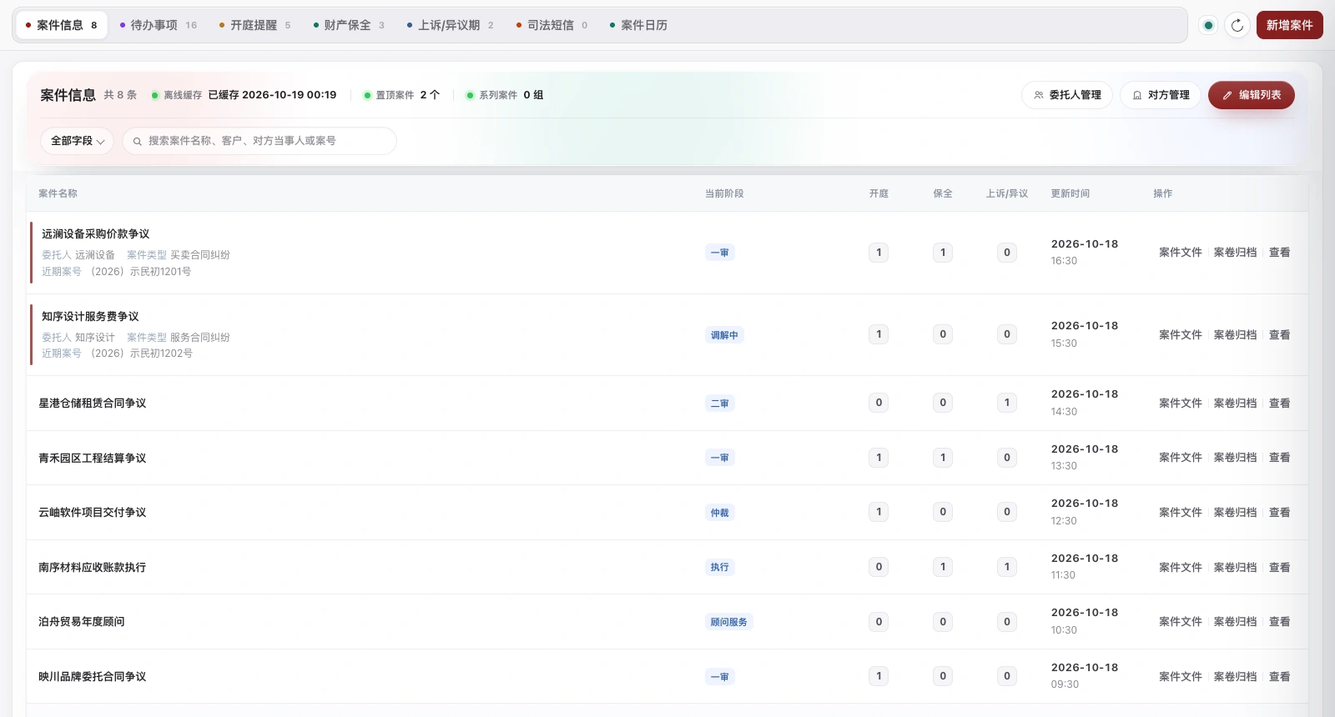
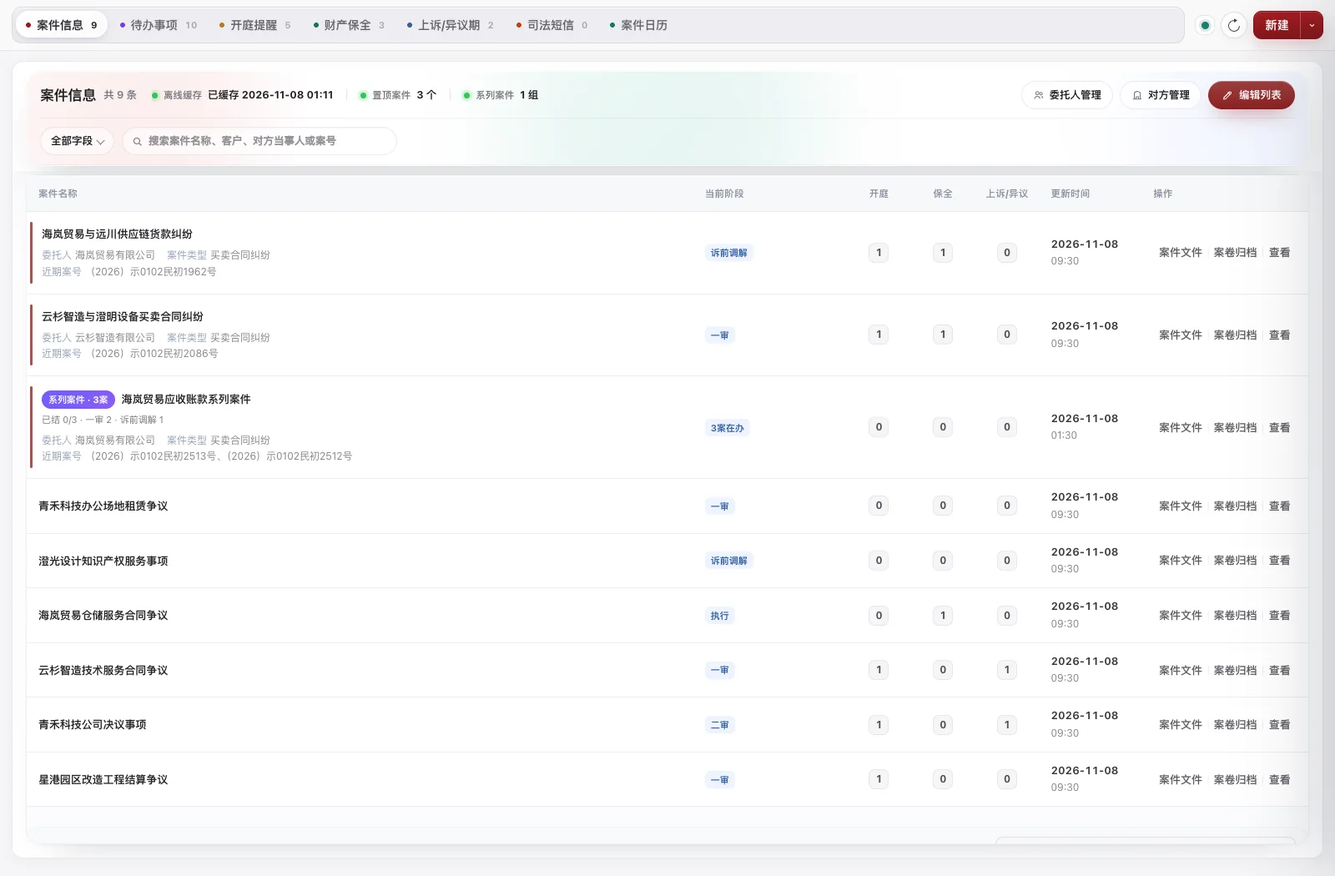
Refresh product screenshots and add interactive workbench tour

diff --git a/docs/index.html b/docs/index.html
@@ -18,13 +18,15 @@
 .hero-actions{width:min(356px,100%);min-width:0;display:flex;flex-direction:column;align-items:stretch;gap:0;padding:2px 0 0}.hero-actions .button{width:100%;justify-content:space-between;padding:15px 18px;font-size:13px}.hero-actions .button>span{margin-left:0;font-size:18px}.hero-ai-link{display:flex;width:100%;align-items:center;justify-content:space-between;gap:12px;margin-top:8px;padding:6px 18px;color:#9b1d27;font-size:12px;font-weight:500;text-decoration:none}.hero-ai-link:hover{color:#781920;text-decoration:underline;text-underline-offset:3px}.hero-ai-link:focus-visible{outline:2px solid #9b1d27;outline-offset:3px}.hero-actions .download-meta{margin:12px 18px 0;font-size:11px;line-height:1.7;color:var(--muted)}.hero-quiet-links{display:flex;justify-content:space-between;gap:14px;border-top:1px solid var(--line);padding:12px 18px 0;margin-top:15px}.hero-quiet-links .quiet-link{display:inline-flex;align-items:center;gap:6px;margin:0;font-size:11px}.hero-quiet-links .quiet-link span{margin-left:0}@media(max-width:900px){.hero-bottom{display:block}.hero-actions{width:100%;max-width:420px;margin-top:26px;padding:0}.desktop-break{display:none}}@media(max-width:720px){.hero-actions{margin-top:23px}.hero-quiet-links{flex-wrap:wrap;gap:8px 16px}}
 </style>
 <link rel="stylesheet" href="typography-20261104.css">
+<link rel="stylesheet" href="tour-20261108.css?v=20261108">
+<script src="tour-20261108.js?v=20261108" defer></script>
 </head>
 <body>
 <a class="skip-link" href="#main">跳至主要内容</a>
 <header class="site-header">
 <div class="header-inner">
   <a class="wordmark" href="#" aria-label="Stella 首页"><img src="assets/stella-brand.svg" alt="Stella 法律操作系统" width="990" height="378" style="height:auto;object-fit:contain"></a>
-  <nav aria-label="主导航"><a href="#cases">案件管理</a><a href="#knowledge">知识与阅读</a><a href="#office">邮箱与工具</a><a href="#updates">更新日志</a><a href="download.html">下载指引</a></nav>
+  <nav aria-label="主导航"><a href="#cases">案件管理</a><a href="#knowledge">知识与阅读</a><a href="#office">邮箱与工具</a><a href="#tour">更多板块</a><a href="#updates">更新日志</a><a href="download.html">下载指引</a></nav>
   <a class="header-download" href="download.html">下载 Stella <span aria-hidden="true">↗</span></a>
 </div>
 </header>
@@ -34,13 +36,13 @@
   <h1>让法律工作，<br><span class="hero-second">有条理地发生<span class="period">。</span></span></h1>
   <div class="hero-bottom"><p class="hero-description">从法院短信到案件台账，从一篇文章到可复用的知识。<br>Stella 把办案、阅读、邮件与日常工具连接起来，<br class="desktop-break">让重复的整理交给系统，让判断留给你。</p>
   <div class="hero-actions"><a class="button primary" data-download href="download.html">选择适合你的版本 <span aria-hidden="true">↗</span></a><p class="download-meta" data-device-note>Mac 1.1.8 · macOS 12+ · 两种芯片分别下载</p><a class="hero-ai-link" href="download.html#agent-install"><span>复制指令，让 AI 帮你安装</span><span aria-hidden="true">↗</span></a><div class="hero-quiet-links"><a class="quiet-link" href="watch.html"><span aria-hidden="true">▷</span>观看介绍片 · 3 分 24 秒</a><a class="quiet-link" href="https://github.com/liu-zongjin/stella-downloads/releases">GitHub 发布与校验 <span aria-hidden="true">↗</span></a></div></div></div>
-  <div class="workspace-frame" id="workspace"><div class="frame-bar"><div class="window-controls" aria-hidden="true"><i></i><i></i><i></i></div><span>一个工作空间，串起日常工作</span><span class="frame-label">STELLA / WORKSPACE</span></div><a class="showcase-image-link" href="assets/stella-workspace-showcase.webp" target="_blank" rel="noopener"><img class="workspace-image" src="assets/stella-workspace-showcase.webp" width="1600" height="1050" alt="Stella 桌面工作空间，包括知识库导航、案件入口与效率中心" fetchpriority="high" style="height:auto;object-fit:contain"></a><div class="image-footnote"><span>熟悉的桌面体验，专注于手头的事。</span><span>界面中的内容为演示资料</span></div></div>
+  <div class="workspace-frame" id="workspace"><div class="frame-bar"><div class="window-controls" aria-hidden="true"><i></i><i></i><i></i></div><span>一个工作空间，串起日常工作</span><span class="frame-label">STELLA / WORKSPACE</span></div><div class="wb-carousel" data-wb-carousel aria-roledescription="轮播" aria-label="首页工作台实机演示"><div class="wb-stage"><figure class="wb-slide is-active" data-wb-slide="knowledge" aria-hidden="false"><a class="showcase-image-link" href="assets/stella-workspace-showcase.webp" target="_blank" rel="noopener"><img class="workspace-image" src="assets/stella-workspace-showcase.webp" width="1600" height="1050" alt="法律知识工作台实机界面：金色夕照与海岸悬崖背景，知识沉淀与检索、今日工作快报与提醒中心" fetchpriority="high"></a></figure><figure class="wb-slide" data-wb-slide="case" aria-hidden="true"><a class="showcase-image-link" href="assets/stella-workspace-case.webp" target="_blank" rel="noopener"><img class="workspace-image" src="assets/stella-workspace-case.webp" width="1600" height="1050" loading="lazy" alt="案件管理工作台实机界面：日出星芒与云海雪峰背景，案件统筹与推进、案件概览与提醒中心"></a></figure></div><div class="wb-controls"><div class="wb-tabs" role="tablist" aria-label="切换首页工作台"><button class="wb-tab is-active" type="button" role="tab" aria-selected="true" data-wb-target="knowledge"><span class="wb-tab-index">01</span><span class="wb-tab-copy"><strong>法律知识工作台</strong><small>知识沉淀与检索</small></span></button><button class="wb-tab" type="button" role="tab" aria-selected="false" tabindex="-1" data-wb-target="case"><span class="wb-tab-index">02</span><span class="wb-tab-copy"><strong>案件管理工作台</strong><small>案件统筹与推进</small></span></button></div><div class="wb-auto"><button class="wb-play" type="button" data-wb-toggle aria-label="暂停自动切换" aria-pressed="true">❚❚</button><span class="wb-progress" aria-hidden="true"><i></i></span></div></div></div><div class="image-footnote"><span>两个工作台，一套本地工作空间；点击标签切换，或让它自动轮播。</span><span>界面中的内容为演示资料</span></div></div>
   <div class="principles"><p><span class="tiny-icon" aria-hidden="true">⌘</span> 案件全流程</p><p><span class="tiny-icon" aria-hidden="true">◉</span> 知识深度整理</p><p><span class="tiny-icon" aria-hidden="true">↗</span> 办公自动归集</p></div>
 </section>
 <section class="work-section wrap" id="cases" aria-labelledby="cases-title">
 <div class="section-heading"><p class="eyebrow section-number">01 / 案件管理</p><h2 id="cases-title">案件在这里，<br>进展也在这里。</h2><p class="section-description">把案件档案、开庭、待办、保全和诉讼期限放在同一个工作台。<br>法院通知与本地材料顺着案件汇合，重要节点不再四处寻找。</p></div>
-<div class="product-shot"><a class="showcase-image-link" href="assets/stella-cases-showcase.webp" target="_blank" rel="noopener"><img src="assets/stella-cases-showcase.webp" alt="Stella 案件管理工作台：案件台账、开庭、待办、保全、期限与司法短信入口" loading="lazy" width="1600" height="860" style="height:auto;object-fit:contain"></a><span class="shot-label">案件管理 / 应用实景 · 8 个演示案件，关联待办、开庭、保全与期限<a href="assets/stella-cases-showcase.webp" target="_blank" rel="noopener">查看大图 ↗</a></span></div>
-<div class="case-showcase-detail"><a class="showcase-image-link" href="assets/stella-case-detail-showcase.webp" target="_blank" rel="noopener"><img src="assets/stella-case-detail-showcase.webp" loading="lazy" alt="案件详情中的待办、开庭提醒、财产保全与数据日志" width="1216" height="1050" style="height:auto;object-fit:contain"></a><div><span class="feature-index">ONE CASE / CONNECTED WORK</span><h3>不只是一行案件名称，<br>更是一组有联系的工作。</h3><p>以设备采购争议为例：委托人与对方当事人、案号和法院、材料文件夹、庭前待办、开庭提醒及保全记录都已关联。进入详情，就能沿着同一件事继续处理。</p></div></div>
+<div class="product-shot"><a class="showcase-image-link" href="assets/stella-cases-showcase.webp" target="_blank" rel="noopener"><img src="assets/stella-cases-showcase.webp" alt="Stella 案件管理台账：案件列表、系列案件分组、开庭、待办、保全与期限一览" loading="lazy" width="1600" height="1050" style="height:auto;object-fit:contain"></a><span class="shot-label">案件管理 / 应用实景 · 9 个演示案件，含系列案件分组与关联待办、开庭、保全、期限<a href="assets/stella-cases-showcase.webp" target="_blank" rel="noopener">查看大图 ↗</a></span></div>
+<div class="case-showcase-detail"><a class="showcase-image-link" href="assets/stella-case-detail-showcase.webp" target="_blank" rel="noopener"><img src="assets/stella-case-detail-showcase.webp" loading="lazy" alt="案件详情：待办事项、开庭提醒、财产保全、数据日志，以及一张网同步与关联动态" width="1216" height="1050" style="height:auto;object-fit:contain"></a><div><span class="feature-index">ONE CASE / CONNECTED WORK</span><h3>不只是一行案件名称，<br>更是一组有联系的工作。</h3><p>以设备采购争议为例：委托人与对方当事人、案号和法院、材料文件夹、庭前待办、开庭提醒及保全记录都已关联。「一张网」同步记录与关联动态也在同一页，进入详情就能沿着同一件事继续处理。</p></div></div>
 <div class="detail-grid"><article><span class="feature-index">CASE WORKSPACE</span><h3>一份案件，串起全部日常。</h3><p>普通案件与系列案件统一管理，Excel 批量导入、更新和回退。将本地文件夹绑定到案件，直接浏览、预览、整理文件，并对案件材料发起 AI 问答。</p></article><article><span class="feature-index">DATES & CONTACTS</span><h3>让期限和提醒跟上进展。</h3><p>开庭、保全、上诉与异议期各有记录和提醒；案件日历可同步 Apple 日历，委托人可同步 iCloud 联系人。联系人、备忘和文件始终围绕同一个案件。</p></article></div>
 <div class="sms-story"><div class="story-copy"><p class="eyebrow section-number">MAC 专属联动</p><h3>一条法院短信，<br>成为下一步行动。</h3><p>iPhone 短信经 iCloud 同步到 Mac「信息」后，Stella 可识别司法通知，提取案号、法院、时间与事项，匹配本地案件。</p><p>符合自动处理条件时，生成关联待办、开庭或期限记录，并尝试下载送达文书；可归档的材料进入案件文件夹，需登录或核验的环节再由你接手。</p><p class="feature-note">需在 Mac 开启短信同步并授予读取权限，配置识别服务。识别或匹配不确定时，进入待确认流程。</p></div><div class="sms-flow" aria-label="短信到案件的工作流程示意"><div class="message-sample"><span>信息 · 司法通知</span><p>您有一份新的电子送达文书，<br>请查收并关注相关期限。</p><small>流程示意</small></div><i class="flow-connector" aria-hidden="true"></i><div class="flow-node"><b>01</b><div><strong>识别通知与案号</strong><small>提取法院、时间、事项与文书链接</small></div><span>✦</span></div><div class="flow-node"><b>02</b><div><strong>关联本地案件</strong><small>已有案件匹配，待办与期限归位</small></div><span>↗</span></div><div class="flow-node"><b>03</b><div><strong>下载文书，接续处理</strong><small>支持的送达链接自动尝试下载与归档</small></div><span>↓</span></div></div></div>
 <div class="court-grid"><article class="court-card"><span class="feature-index">COURT ONLINE</span><h3>「一张网」的消息，<br>回到你的办案工作台。</h3><p>同步人民法院在线服务的待办、消息、电子送达、我的案件与立案预约。按案号关联本地案件，筛选未读与重要记录；附件可预览、下载并归档到关联案件。</p><div class="court-chips"><span>待办</span><span>消息</span><span>电子送达</span><span>我的案件</span><span>立案预约</span></div><p class="feature-note">使用本人的法院账户登录；同步与下载状态可查看记录。</p></article><article class="court-card filing-card"><span class="feature-index">FILING ASSISTANT</span><h3>自动化立案，<br>从材料走到官网草稿。</h3><p>扫描本地立案文件夹，识别当事人、案由、诉请与附件分类。核对后辅助填写官网草稿、安排材料上传，将重复填表变成有步骤的任务。</p><ol class="filing-steps"><li><b>1</b>扫描材料</li><li><b>2</b>核对信息</li><li><b>3</b>官网执行</li><li><b>4</b>提交前确认</li></ol><p class="feature-note">最终提交、身份核验、验证码和电子签名由律师本人完成。</p></article></div>
@@ -53,7 +55,31 @@
 <section class="work-section wrap" id="office"><div class="section-heading"><p class="eyebrow section-number">03 / 邮箱与发票</p><h2>信件有来处，<br>票据有归处。</h2><p class="section-description">把常用邮箱带进同一个工作空间。<br>从收发邮件到整理附件、归集发票，少一些在窗口之间来回切换。</p></div>
 <div class="mail-layout"><div class="mail-visual" aria-label="邮箱与发票归集流程示意"><div class="provider-row"><span>QQ 邮箱</span><span>腾讯企业邮箱</span><span>网易企业邮箱</span></div><div class="mail-window"><div class="mail-sidebar"><b>邮箱</b><span class="active">收件箱</span><span>已发送</span><span>草稿</span></div><div class="mail-list"><div><i></i><strong>项目往来与材料</strong><span>附件</span></div><div><i></i><strong>电子发票交付通知</strong><span>PDF · XML</span></div><div><i></i><strong>本月差旅电子票据</strong><span>OFD</span></div></div></div><div class="invoice-summary"><span>发票中心</span><strong>扫描 → 筛选 → 核对 → 归集</strong><small>功能流程示意</small></div></div><div class="mail-copy"><article><h3>多种邮箱，一个工作台。</h3><p>接入 QQ 邮箱、腾讯企业邮箱与网易企业邮箱，在各账户中阅读、搜索和发送邮件。富文本写信、联系人联想、附件预览与下载，覆盖常见收发场景。</p></article><article><h3>发票，不必逐封翻找。</h3><p>按邮箱、时间和关键词扫描票据，识别 PDF、OFD、XML 等常见材料，核对开票时间、金额与来源邮件；筛除已导出记录，批量打包下载。</p></article><article><h3>每月归集，按计划完成。</h3><p>设置月度自动归集任务，按计划扫描上一个自然月并生成本机 ZIP。保留导出历史，遇到超时或识别问题可查看状态，继续补查。</p></article></div></div></section>
 <section class="tools-section"><div class="wrap"><div class="section-heading"><p class="eyebrow section-number">04 / 研究与实务工具</p><h2>那些每天要用的工具，<br>也在伸手可及处。</h2><p class="section-description">查一个权威答问，算一段利息，生成一套文书。<br>围绕法律工作，把高频的小事做得更顺手。</p></div><div class="tool-grid"><article class="tool-card"><div class="tool-glyph" aria-hidden="true">答</div><span class="feature-index">FADA / REFERENCE</span><h3>法答网精选答问</h3><p>检索最高人民法院公开的精选答问，按批次、专题与法律依据定位。提炼核心结论、记录个人笔记，支持范围问答和 Word 导出，并监测新批次。</p><div class="tool-tags"><span>权威公开答问</span><span>多维筛选</span><span>原文与笔记</span></div></article><article class="tool-card"><div class="tool-glyph calculation" aria-hidden="true">∑</div><span class="feature-index">CALCULATE / EXPORT</span><h3>计算工具</h3><p>支持固定利率、LPR 倍数与上浮 BP，按日期和利率变动分段计算。粘贴判决文字辅助识别本金与期限，导出带公式的 Excel，保留计算明细与历史。</p><div class="tool-tags"><span>分段利息</span><span>参数识别</span><span>公式可复核</span></div></article><article class="tool-card"><div class="tool-glyph" aria-hidden="true">文</div><span class="feature-index">DOCUMENTS / PRACTICE</span><h3>常用文书，成套生成</h3><p>所函、授权委托书、法定代表人证明书、业务审批表与文书合集集中生成，边填边预览。使用自己的律所名称与 Logo，导出后继续处理。</p><div class="tool-tags"><span>实时预览</span><span>文书合集</span><span>自定义律所标识</span></div></article></div><div class="more-tools"><p>还有更多工作方式，等你接入。</p><span>案件研究</span><span>法律雷达与晨报</span><span>会议录音转写</span><span>AI 与 MCP</span><span>案卷归档</span></div></div></section>
-<section class="updates-section wrap" id="updates" aria-labelledby="updates-title"><div class="updates-intro"><p class="eyebrow section-number">更新日志</p><h2 id="updates-title">Stella，<br>继续向前。</h2><p>依据已合并的项目更新记录，<br>整理新增功能与体验改进。</p><span class="updates-scope">按功能实际加入或升级时间归纳</span></div><div class="updates-list"><article class="update-entry"><span class="update-date">2026-10-31</span><div><h3>复制指令，让 AI 帮你安装</h3><ul><li>Mac 和 Windows 新增源码安装指引：复制对应指令，交给支持本机操作的 AI 助手检查环境、安装并打开客户端。</li><li>源码版可按指引获取 GitHub 主分支的更新，无需重新下载安装包；更新需由用户发起。</li></ul></div></article><article class="update-entry"><span class="update-date">2026-10-28</span><div><h3>智能立案、AI 阅读与知识表格</h3><ul><li>新建案件可绑定文件夹并选择材料，由 AI 提出确认问题；识别结果可修改后再带入立案信息，并可结合工商信息完善当事人资料。修复新建对方当事人档案时报错的问题。</li><li>优化 AI 增强对文档和图像的读取、请求预算与对话可靠性；AI 接口管理新增智能立案配置。</li><li>知识文章支持电子表格与表格编辑；系列案件更新后刷新排序和活动时间。</li><li>完善待办与开庭提醒、文字识别设置和页面交互；Mac 匿名统计在同意后首次发送，之后每六小时最多发送一次。</li></ul></div></article><article class="update-entry"><span class="update-date">2026-10-25—27</span><div><h3>系列案件、待办与提醒更顺手</h3><ul><li>完善系列子案表格定位、内容保存和案号记录处理，保留编辑状态与未保存内容。</li><li>待办事项可独立创建，日历提醒规则可按需设置；支持从选中文字识别提醒草稿。</li><li>新增文字识别设置与识别测试，修复选中文字菜单和案件提醒筛选、排序问题。</li></ul></div></article><article class="update-entry"><span class="update-date">2026-10-23</span><div><h3>Windows 安装进度更清晰</h3><ul><li>分开展示下载、校验与启动，显示实际进度、下载速度及当前阶段预计剩余时间。</li><li>减少重复校验读盘，下载过慢时自动重连，支持经过签名验证的备用源机制。</li><li>修复法院附件保存失败的一个兼容性问题；新增可随时关闭的匿名统计，授权后每六小时最多上报一次。</li></ul></div></article><article class="update-entry"><span class="update-date">2026-10-21</span><div><h3>法答网恢复可用，补齐双平台体验</h3><ul><li>修复法答网打开空白，内置公开问答支持离线检索、个人笔记与 Word 导出。</li><li>修复邮箱附件和发票导出的保存问题，改善 PDF、旧版 Excel 和文字识别的可用性。</li><li>新增 Intel Mac 版本，并补充常用 Windows 10 的 64 位系统兼容支持。</li></ul></div></article><article class="update-entry"><span class="update-date">2026-10-20</span><div><h3>邮箱、开庭提醒与工作空间设置</h3><ul><li>邮箱配置集中管理，支持企业微信／腾讯企业邮箱、网易企业邮箱和 QQ 邮箱；切回邮箱时自动检查新邮件并保留滚动位置。</li><li>开庭提醒自动将案号及受理机构合并到关联案件，同一案号自动去重。</li><li>统一用户名、律所名称、Logo、文号和联系方式，文书预览与导出共用设置。</li><li>新增系统消息入口、自定义 AI 接口接入指引；Windows 支持司法短信文本和截图确认导入。</li><li>储存管理展示临时文件用途和清理影响，按选择并确认后清理。</li></ul></div></article><article class="update-entry"><span class="update-date">2026-10-19</span><div><h3>下载中心与存储管理升级</h3><ul><li>下载中心补齐各类导出与本地案卷产物，支持按文件大小排序，以及大小范围、下载或生成日期筛选。</li><li>一键检查失效记录，支持批量移除记录；勾选现有文件并确认后，可移到系统废纸篓。</li><li>新增分组侧栏、磨砂工具栏和按需展开的筛选区，优化深浅色界面；操作按钮直接写明目标页面和具体动作。</li><li>存储管理展示可搜索的导出文件明细、路径、用途和时间，支持导出完整清单及勾选确认清理。</li><li>修复直接导出漏记、筛选更新、历史记录导入和取消保存状态等问题。</li></ul></div></article><article class="update-entry"><span class="update-date">2026-10-18</span><div><h3>文书品牌与工作空间偏好</h3><ul><li>文书生成支持自己的律所名称与 Logo。</li><li>用户名可编辑、可隐藏；侧边栏问候语可按需开启。</li></ul></div></article><article class="update-entry"><span class="update-date">2026-10-16</span><div><h3>案件记录与 AI 对话继续衔接</h3><ul><li>备忘录和台账可添加多个附件，绑定本地文件或文件夹。</li><li>回答生成期间可切换或新建对话，各自保留草稿和进度。</li></ul></div></article><article class="update-entry"><span class="update-date">2026-10-14—15</span><div><h3>从材料到可复核的办案成果</h3><ul><li>新增事实核对、案件时间轴和证据编排，支持人工确认后导出。</li><li>案件关联知识展示论证用途、适用边界和两侧原文，支持研究报告与核验底稿。</li></ul></div></article><article class="update-entry"><span class="update-date">2026-10-12—13</span><div><h3>围绕案件安排工作、归集材料</h3><ul><li>案件 AI 支持案件聚焦与待办草稿；长期记忆可查看、编辑和停用。</li><li>下载中心集中展示进度、来源、案件与保存位置；事项可独立绑定本地材料。</li></ul></div></article><details class="updates-history"><summary>查看更早的更新日志 <span aria-hidden="true">＋</span></summary><article class="update-entry"><span class="update-date">2026-10-08</span><div><h3>在线阅卷与卷宗下载</h3><ul><li>一张网新增在线阅卷与卷宗下载任务，集中查看材料获取进度，并衔接后续案件工作。</li></ul></div></article><article class="update-entry"><span class="update-date">2026-10-06</span><div><h3>知识文章按专业领域整理</h3><ul><li>引入专业分类体系，支持按文章内容整理专业领域，并保留人工修正入口。</li></ul></div></article><article class="update-entry"><span class="update-date">2026-10-01</span><div><h3>案卷归档与工作空间管理</h3><ul><li>案卷工作台衔接材料分类、清单保存与电子案卷生成，导出保留版本。</li><li>效率中心入口可移动和编辑；设置支持自动备份计划与备份文件管理。</li></ul></div></article><article class="update-entry"><span class="update-date">2026-09-17—24</span><div><h3>邮箱、系列案件与资料流转</h3><ul><li>接入网易企业邮箱，补充云附件与大附件处理。</li><li>系列案件支持 Excel 更新核对与回退；案件文件可管理 Finder 标签颜色。</li></ul></div></article><article class="update-entry"><span class="update-date">2026-09-11—12</span><div><h3>知识整理与复习工作流</h3><ul><li>标签编辑集中管理自定义库、专业领域与作者。</li><li>知识中心完善查询、复习和治理流程，衔接规则结论与原文依据。</li></ul></div></article><article class="update-entry"><span class="update-date">2026-08-27</span><div><h3>一张网工作台</h3><ul><li>集中查看法院账户的待办、消息、电子送达、我的案件与立案预约。</li><li>官网记录可关联本地案件，电子送达附件支持预览、下载和归档。</li></ul></div></article><article class="update-entry"><span class="update-date">2026-08-24</span><div><h3>邮箱与发票中心</h3><ul><li>QQ 邮箱、腾讯企业邮箱进入效率中心，支持收发邮件与附件处理。</li><li>发票中心支持票据扫描、筛选、批量下载及按月自动归集。</li></ul></div></article><article class="update-entry"><span class="update-date">2026-08-17</span><div><h3>录音转写与外部知识连接</h3><ul><li>录音工作台支持实时录音、音频上传与历史记录，转写和纪要可保存到知识库。</li><li>新增夸克网盘 MCP 来源与 Skill 管理入口。</li></ul></div></article></details></div></section>
+<section class="tour-section wrap" id="tour" aria-labelledby="tour-title">
+<div class="section-heading"><p class="eyebrow section-number">MORE / 更多板块</p><h2 id="tour-title">同一个空间里，<br>还有这些日常。</h2><p class="section-description">从界面外观到案件统计，从计算到文书。<br>点一点左边的条目，看看它们实际长什么样。</p></div>
+<div class="tour-shell" data-tour>
+<div class="tour-nav" role="tablist" aria-label="更多板块导览">
+<button class="tour-tab is-active" type="button" role="tab" aria-selected="true" data-tour-target="settings" data-index="SETTINGS / PERSONAL" data-title="把首页，调成自己的样子。" data-copy="两个工作台可以分别设置背景、蒙版与快捷按钮；展示内容、自动轮播和主题配色也在这里调整，设置只保存在本机。" data-tags="内置背景|双工作台|自动轮播"><span class="tour-tab-num">01</span><span><strong>设置与外观</strong><small>首页工作台 · 背景与轮播</small></span><i aria-hidden="true">↗</i></button>
+<button class="tour-tab" type="button" role="tab" aria-selected="false" tabindex="-1" data-tour-target="stats" data-index="CASES / INSIGHT" data-title="一眼看清，手上的案件全貌。" data-copy="在办与已结案件、案由分布、诉讼阶段和近期提醒汇总成图表；点击标签还能切换统计口径，回到具体案件继续处理。" data-tags="案件状态|案由分布|近期提醒"><span class="tour-tab-num">02</span><span><strong>案件可视化</strong><small>状态 · 分布 · 提醒</small></span><i aria-hidden="true">↗</i></button>
+<button class="tour-tab" type="button" role="tab" aria-selected="false" tabindex="-1" data-tour-target="interest" data-index="CALCULATE / EXPORT" data-title="算得清楚，也经得起复核。" data-copy="按日期与利率变动分段计算，支持 LPR 倍数与 BP 加点；粘贴判决文字辅助识别参数，导出保留计算公式的 Excel。" data-tags="LPR 基准|分段计息|公式可复核"><span class="tour-tab-num">03</span><span><strong>计算工具</strong><small>分段利息 · 公式导出</small></span><i aria-hidden="true">↗</i></button>
+<button class="tour-tab" type="button" role="tab" aria-selected="false" tabindex="-1" data-tour-target="suohan" data-index="DOCUMENTS / PREVIEW" data-title="常用文书，边填边看。" data-copy="法院、委托人、代理律师与案由填入后，右侧实时生成所函预览；律所名称与 Logo 可以在设置里自定义。" data-tags="所函|实时预览|自定义标识"><span class="tour-tab-num">04</span><span><strong>文书生成</strong><small>所函 · 实时预览</small></span><i aria-hidden="true">↗</i></button>
+<button class="tour-tab" type="button" role="tab" aria-selected="false" tabindex="-1" data-tour-target="explore" data-index="DISCOVER / MONITOR" data-title="让新规则，主动来到眼前。" data-copy="按时间、来源、领域与关键词做一次法律检索，把结果沉淀为长期监测；企业尽调与每日法律情报简报也在同一入口。" data-tags="法律检索|企业尽调|持续监测"><span class="tour-tab-num">05</span><span><strong>探索与情报</strong><small>检索 · 尽调 · 监测</small></span><i aria-hidden="true">↗</i></button>
+<button class="tour-auto" type="button" data-tour-toggle aria-pressed="false"><span aria-hidden="true">↻</span><em data-tour-toggle-label>自动导览</em></button>
+</div>
+<div class="tour-view">
+<div class="tour-frames">
+<figure class="tour-frame is-active" data-tour-panel="settings" aria-hidden="false"><a href="assets/stella-settings.webp" target="_blank" rel="noopener"><img src="assets/stella-settings.webp" width="1600" height="900" loading="lazy" alt="设置 · 外观与体验：首页工作台的展示内容、内置背景图库、蒙版透明度与自动轮播"></a></figure>
+<figure class="tour-frame" data-tour-panel="stats" aria-hidden="true"><a href="assets/stella-case-stats.webp" target="_blank" rel="noopener"><img src="assets/stella-case-stats.webp" width="1600" height="900" loading="lazy" alt="案件管理可视化：案件状态与完整度、案由分布、诉讼阶段和近期提醒"></a></figure>
+<figure class="tour-frame" data-tour-panel="interest" aria-hidden="true"><a href="assets/stella-interest.webp" target="_blank" rel="noopener"><img src="assets/stella-interest.webp" width="1600" height="900" loading="lazy" alt="计算工具：利息计算参数、LPR 基准与 BP 加点、文字识别填充与历史记录"></a></figure>
+<figure class="tour-frame" data-tour-panel="suohan" aria-hidden="true"><a href="assets/stella-suohan.webp" target="_blank" rel="noopener"><img src="assets/stella-suohan.webp" width="1600" height="900" loading="lazy" alt="所函生成工具：左侧填写案件与当事人信息，右侧实时预览所函文书"></a></figure>
+<figure class="tour-frame" data-tour-panel="explore" aria-hidden="true"><a href="assets/stella-explore.webp" target="_blank" rel="noopener"><img src="assets/stella-explore.webp" width="1600" height="900" loading="lazy" alt="探索：法律检索任务、来源与领域统计、企业尽调、持续监测与每日法律情报简报"></a></figure>
+</div>
+<div class="tour-caption"><div class="tour-copy"><span class="feature-index" data-tour-index>SETTINGS / PERSONAL</span><h3 data-tour-title>把首页，调成自己的样子。</h3><p data-tour-copy>两个工作台可以分别设置背景、蒙版与快捷按钮；展示内容、自动轮播和主题配色也在这里调整，设置只保存在本机。</p></div><div class="tour-tags" data-tour-tags><span>内置背景</span><span>双工作台</span><span>自动轮播</span></div></div>
+<div class="tour-dots" aria-label="切换板块"><button type="button" class="is-active" data-tour-dot aria-label="第 1 个板块：设置与外观"></button><button type="button" data-tour-dot aria-label="第 2 个板块：案件可视化"></button><button type="button" data-tour-dot aria-label="第 3 个板块：计算工具"></button><button type="button" data-tour-dot aria-label="第 4 个板块：文书生成"></button><button type="button" data-tour-dot aria-label="第 5 个板块：探索与情报"></button></div>
+</div>
+</div>
+</section>
+<section class="updates-section wrap" id="updates" aria-labelledby="updates-title"><div class="updates-intro"><p class="eyebrow section-number">更新日志</p><h2 id="updates-title">Stella，<br>继续向前。</h2><p>依据已合并的项目更新记录，<br>整理新增功能与体验改进。</p><span class="updates-scope">按功能实际加入或升级时间归纳</span></div><div class="updates-list"><article class="update-entry"><span class="update-date">2026-11-07</span><div><h3>首页工作台与导航更顺手</h3><ul><li>知识和案件首页工作台支持分别设置背景、蒙版透明度、快捷按钮与轮播，设置页二级类目可折叠、搜索直达。</li><li>侧边栏、顶部工作区、一张网、知识中心和设置分类增加随选中项移动的滑动选中效果；案件可视化改在应用内打开。</li><li>优化案件联系人与备忘的录入、排版和智能分列。</li></ul></div></article><article class="update-entry"><span class="update-date">2026-11-05—06</span><div><h3>系列案件表格与归档</h3><ul><li>系列案件表头与工具栏按用途分组，编辑工具合并为单行，切换编辑时保持表头位置。</li><li>主表支持拖选行列与单元格、复制剪切粘贴、查找替换、多级排序、条件筛选和撤销保护。</li><li>结案确认后可一并归档系列案及在办子案；总列表中系列案与普通案件共用案件文件、案卷归档和查看入口。</li></ul></div></article><article class="update-entry"><span class="update-date">2026-11-05</span><div><h3>使用统计与下载体验</h3><ul><li>源码安装及客户端默认上报基础使用统计，首次运行不再弹出授权提示；仍可在设置中关闭，并保留已有关闭选择。</li><li>网络失败改为有上限的延后重试；官网区分点击复制与确认复制成功，补计仅互动访客。</li><li>首页下载入口文案统一，下载页按设备给出更清晰的安装选择，并优先展示「复制指令让 AI 帮你安装」；长文案换行与排版同步优化。</li></ul></div></article><article class="update-entry"><span class="update-date">2026-11-01—04</span><div><h3>公开类案检索与案件资料整理</h3><ul><li>新增不依赖专业法律数据库的公开互联网类案检索：按问题拆分事实路径、动态补检，分别核对必要事实与法院实质理由；部分相关案例说明证明缺口。</li><li>案件详情「联系与备忘」改为可编辑表格，支持搜索、置顶、拖动排序、单位候选与 AI 智能分列；材料识别到多个案号时逐行核对。</li><li>司法短信最多可设置三个收件手机号，法院要求核验时按后四位顺序尝试并提示结果；AI API 管理加入服务商接入指引。</li></ul></div></article><article class="update-entry"><span class="update-date">2026-10-31</span><div><h3>复制指令，让 AI 帮你安装</h3><ul><li>Mac 和 Windows 新增源码安装指引：复制对应指令，交给支持本机操作的 AI 助手检查环境、安装并打开客户端。</li><li>源码版可按指引获取 GitHub 主分支的更新，无需重新下载安装包；更新需由用户发起。</li></ul></div></article><article class="update-entry"><span class="update-date">2026-10-29—30</span><div><h3>AI 对话、文档辅助与源码客户端</h3><ul><li>复杂提问先做限时任务理解，针对明确要点补充检索并检查回答是否遗漏；进度窗口按实际事件展示检索、生成与检查。</li><li>文件报告按分类分别检索，单类失败不阻断其他类别；新增文书生成辅助与对话保存改进。</li><li>设置页增加关键词搜索与使用说明入口；Windows 源码客户端支持依赖检查、桌面入口与保留资料的更新。</li></ul></div></article><article class="update-entry"><span class="update-date">2026-10-28</span><div><h3>智能立案、AI 阅读与知识表格</h3><ul><li>新建案件可绑定文件夹并选择材料，由 AI 提出确认问题；识别结果可修改后再带入立案信息，并可结合工商信息完善当事人资料。修复新建对方当事人档案时报错的问题。</li><li>优化 AI 增强对文档和图像的读取、请求预算与对话可靠性；AI 接口管理新增智能立案配置。</li><li>知识文章支持电子表格与表格编辑；系列案件更新后刷新排序和活动时间。</li><li>完善待办与开庭提醒、文字识别设置和页面交互；Mac 匿名统计在同意后首次发送，之后每六小时最多发送一次。</li></ul></div></article><article class="update-entry"><span class="update-date">2026-10-25—27</span><div><h3>系列案件、待办与提醒更顺手</h3><ul><li>完善系列子案表格定位、内容保存和案号记录处理，保留编辑状态与未保存内容。</li><li>待办事项可独立创建，日历提醒规则可按需设置；支持从选中文字识别提醒草稿。</li><li>新增文字识别设置与识别测试，修复选中文字菜单和案件提醒筛选、排序问题。</li></ul></div></article><article class="update-entry"><span class="update-date">2026-10-23</span><div><h3>Windows 安装进度更清晰</h3><ul><li>分开展示下载、校验与启动，显示实际进度、下载速度及当前阶段预计剩余时间。</li><li>减少重复校验读盘，下载过慢时自动重连，支持经过签名验证的备用源机制。</li><li>修复法院附件保存失败的一个兼容性问题；新增可随时关闭的匿名统计，授权后每六小时最多上报一次。</li></ul></div></article><article class="update-entry"><span class="update-date">2026-10-21</span><div><h3>法答网恢复可用，补齐双平台体验</h3><ul><li>修复法答网打开空白，内置公开问答支持离线检索、个人笔记与 Word 导出。</li><li>修复邮箱附件和发票导出的保存问题，改善 PDF、旧版 Excel 和文字识别的可用性。</li><li>新增 Intel Mac 版本，并补充常用 Windows 10 的 64 位系统兼容支持。</li></ul></div></article><article class="update-entry"><span class="update-date">2026-10-20</span><div><h3>邮箱、开庭提醒与工作空间设置</h3><ul><li>邮箱配置集中管理，支持企业微信／腾讯企业邮箱、网易企业邮箱和 QQ 邮箱；切回邮箱时自动检查新邮件并保留滚动位置。</li><li>开庭提醒自动将案号及受理机构合并到关联案件，同一案号自动去重。</li><li>统一用户名、律所名称、Logo、文号和联系方式，文书预览与导出共用设置。</li><li>新增系统消息入口、自定义 AI 接口接入指引；Windows 支持司法短信文本和截图确认导入。</li><li>储存管理展示临时文件用途和清理影响，按选择并确认后清理。</li></ul></div></article><article class="update-entry"><span class="update-date">2026-10-19</span><div><h3>下载中心与存储管理升级</h3><ul><li>下载中心补齐各类导出与本地案卷产物，支持按文件大小排序，以及大小范围、下载或生成日期筛选。</li><li>一键检查失效记录，支持批量移除记录；勾选现有文件并确认后，可移到系统废纸篓。</li><li>新增分组侧栏、磨砂工具栏和按需展开的筛选区，优化深浅色界面；操作按钮直接写明目标页面和具体动作。</li><li>存储管理展示可搜索的导出文件明细、路径、用途和时间，支持导出完整清单及勾选确认清理。</li><li>修复直接导出漏记、筛选更新、历史记录导入和取消保存状态等问题。</li></ul></div></article><article class="update-entry"><span class="update-date">2026-10-18</span><div><h3>文书品牌与工作空间偏好</h3><ul><li>文书生成支持自己的律所名称与 Logo。</li><li>用户名可编辑、可隐藏；侧边栏问候语可按需开启。</li></ul></div></article><article class="update-entry"><span class="update-date">2026-10-16</span><div><h3>案件记录与 AI 对话继续衔接</h3><ul><li>备忘录和台账可添加多个附件，绑定本地文件或文件夹。</li><li>回答生成期间可切换或新建对话，各自保留草稿和进度。</li></ul></div></article><article class="update-entry"><span class="update-date">2026-10-14—15</span><div><h3>从材料到可复核的办案成果</h3><ul><li>新增事实核对、案件时间轴和证据编排，支持人工确认后导出。</li><li>案件关联知识展示论证用途、适用边界和两侧原文，支持研究报告与核验底稿。</li></ul></div></article><article class="update-entry"><span class="update-date">2026-10-12—13</span><div><h3>围绕案件安排工作、归集材料</h3><ul><li>案件 AI 支持案件聚焦与待办草稿；长期记忆可查看、编辑和停用。</li><li>下载中心集中展示进度、来源、案件与保存位置；事项可独立绑定本地材料。</li></ul></div></article><details class="updates-history"><summary>查看更早的更新日志 <span aria-hidden="true">＋</span></summary><article class="update-entry"><span class="update-date">2026-10-08</span><div><h3>在线阅卷与卷宗下载</h3><ul><li>一张网新增在线阅卷与卷宗下载任务，集中查看材料获取进度，并衔接后续案件工作。</li></ul></div></article><article class="update-entry"><span class="update-date">2026-10-06</span><div><h3>知识文章按专业领域整理</h3><ul><li>引入专业分类体系，支持按文章内容整理专业领域，并保留人工修正入口。</li></ul></div></article><article class="update-entry"><span class="update-date">2026-10-01</span><div><h3>案卷归档与工作空间管理</h3><ul><li>案卷工作台衔接材料分类、清单保存与电子案卷生成，导出保留版本。</li><li>效率中心入口可移动和编辑；设置支持自动备份计划与备份文件管理。</li></ul></div></article><article class="update-entry"><span class="update-date">2026-09-17—24</span><div><h3>邮箱、系列案件与资料流转</h3><ul><li>接入网易企业邮箱，补充云附件与大附件处理。</li><li>系列案件支持 Excel 更新核对与回退；案件文件可管理 Finder 标签颜色。</li></ul></div></article><article class="update-entry"><span class="update-date">2026-09-11—12</span><div><h3>知识整理与复习工作流</h3><ul><li>标签编辑集中管理自定义库、专业领域与作者。</li><li>知识中心完善查询、复习和治理流程，衔接规则结论与原文依据。</li></ul></div></article><article class="update-entry"><span class="update-date">2026-08-27</span><div><h3>一张网工作台</h3><ul><li>集中查看法院账户的待办、消息、电子送达、我的案件与立案预约。</li><li>官网记录可关联本地案件，电子送达附件支持预览、下载和归档。</li></ul></div></article><article class="update-entry"><span class="update-date">2026-08-24</span><div><h3>邮箱与发票中心</h3><ul><li>QQ 邮箱、腾讯企业邮箱进入效率中心，支持收发邮件与附件处理。</li><li>发票中心支持票据扫描、筛选、批量下载及按月自动归集。</li></ul></div></article><article class="update-entry"><span class="update-date">2026-08-17</span><div><h3>录音转写与外部知识连接</h3><ul><li>录音工作台支持实时录音、音频上传与历史记录，转写和纪要可保存到知识库。</li><li>新增夸克网盘 MCP 来源与 Skill 管理入口。</li></ul></div></article></details></div></section>
 <section class="install-section wrap" id="install"><div class="section-heading"><p class="eyebrow section-number">05 / 准备开始</p><h2 id="install-title">几步之后，<br>即可开始。</h2><p class="section-description">选择安装包，或复制指令<br>让 AI 助手帮你安装。</p><a class="button primary" href="download.html">查看下载与安装指引 ↗</a></div><ol class="install-steps"><li><span class="step-number">01</span><h3>选择你的电脑</h3><p>Apple 芯片 Mac、Intel Mac 或 Windows，下载页会列明适用系统。</p></li><li><span class="step-number">02</span><h3>下载完整安装包</h3><p>Mac 可选择夸克或 GitHub；Windows 只需一个 ZIP，无需逐个下载组件。</p></li><li><span class="step-number">03</span><h3>按指引安装</h3><p>Mac 拖入「应用程序」；Windows 全部解压后双击「开始安装 Stella.cmd」。</p></li></ol></section>
 
 <section class="faq-section wrap" id="questions" aria-labelledby="faq-title"><div><p class="eyebrow section-number">06 / 你可能想了解</p><h2 id="faq-title">开始之前，<br>再了解一点。</h2></div><div class="faq-list"><details><summary>这是什么？我可以直接使用吗？<span aria-hidden="true">＋</span></summary><p>Stella 面向律师与法务人员，连接案件管理、法院通知、知识阅读与办公工具。下载后即可建立自己的案件和知识库，邮箱、法院与 AI 功能按需配置。律所内部审批、会议和设备接入可联系作者定制。</p></details><details><summary>支持哪些电脑？<span aria-hidden="true">＋</span></summary><p>Mac 版同时提供 Apple 芯片和 Intel 芯片安装包，要求 macOS 12 或更新版本。浏览器能够可靠识别时会推荐对应版本；无法确认时，请在「关于本机」查看芯片，再手动选择。Windows 版仍在开发中，现为测试版，存在组件下载慢、安装完成后部分功能组件无法正常使用等问题；适用于 Windows 10 1809+ / Windows 11 的 Intel、AMD 64 位电脑，暂不支持 ARM、32 位和 Windows Server。</p></details><details><summary>这是开放源代码的项目吗？<span aria-hidden="true">＋</span></summary><p>当前 1.1.8 的原创源码按 AGPL v3（仅第 3 版）提供，第三方材料遵循各自许可。<a href="https://github.com/liu-zongjin/apex-legal-os">查看应用源码与许可 ↗</a>。历史安装包请以包内随附许可为准；本分发仓库的旧许可不限制新 Windows 包所附 AGPL 已授予的权利。</p></details><details><summary>短信识别和法院同步如何开始？<span aria-hidden="true">＋</span></summary><p>Mac 版可使用已同步到「信息」中的司法短信，需开启相关同步、授予读取权限并配置识别服务；Windows 版支持粘贴文本、TXT 或截图，预览确认后导入。一张网功能需登录自己的人民法院在线服务账户。涉及登录、核验或最终提交的步骤，按应用提示由本人完成。</p></details><details><summary>AI 和其他联网功能需要另外配置吗？<span aria-hidden="true">＋</span></summary><p>需要。AI、邮箱、法院服务及 MCP 等功能使用你自己的账号或密钥。Windows 引导器会准备浏览器、文字识别和文档转换组件；Mac 的部分联网工具仍需按功能指引配置 Chrome 等外部应用。</p></details><details><summary>如何更新或反馈问题？<span aria-hidden="true">＋</span></summary><p>Mac 版可在应用菜单「检查更新…」获取更新。Windows 安装方式及测试版说明请查看<a href="download.html?platform=windows">下载指引</a>。升级前请备份重要资料；旧 Mac 版若在应用包内保存过附件或导出文件，请额外复制旧 Stella.app 留存。如遇问题，请前往 <a href="https://github.com/liu-zongjin/stella-downloads/issues/new">GitHub Issues</a>，说明应用与系统版本，避免上传敏感资料。</p></details></div></section>

diff --git a/docs/tour-20261108.css b/docs/tour-20261108.css
@@ -1,0 +1,86 @@
+/* Stella 官网 · 首页工作台轮播 + 更多板块导览（2026-11-08） */
+.wb-carousel{background:#fff}
+.wb-stage{position:relative;aspect-ratio:1600/1050;overflow:hidden;background:#f3f1ec}
+.wb-slide{position:absolute;inset:0;margin:0;opacity:0;transform:scale(1.02);transition:opacity .75s ease,transform 1.1s cubic-bezier(.22,.61,.36,1);pointer-events:none}
+.wb-slide.is-active{opacity:1;transform:none;pointer-events:auto;z-index:1}
+.wb-slide a{display:block;height:100%;cursor:zoom-in}
+.wb-slide img{display:block;width:100%;height:100%;object-fit:cover}
+.wb-controls{display:flex;align-items:center;justify-content:space-between;gap:20px;padding:14px 18px;border-top:1px solid #e4e1db;background:#fff}
+.wb-tabs{display:flex;gap:8px;flex-wrap:wrap}
+.wb-tab{appearance:none;border:1px solid var(--line);background:#fbfaf7;border-radius:5px;padding:8px 14px;display:flex;align-items:center;gap:10px;cursor:pointer;color:var(--muted);font-family:var(--sans);text-align:left;transition:border-color .25s,background .25s,transform .25s,color .25s}
+.wb-tab:hover{transform:translateY(-2px);border-color:#c8b8b2}
+.wb-tab.is-active{background:#fff;border-color:var(--red);color:var(--ink);box-shadow:0 6px 18px -12px #921f25}
+.wb-tab-index{font-size:9px;letter-spacing:.12em;color:#a49a91}
+.wb-tab.is-active .wb-tab-index{color:var(--red)}
+.wb-tab-copy{display:flex;flex-direction:column;line-height:1.35}
+.wb-tab-copy strong{font-size:12px;font-weight:600}
+.wb-tab-copy small{font-size:10px;color:#8a8176}
+.wb-auto{display:flex;align-items:center;gap:12px;flex:none}
+.wb-play{appearance:none;border:1px solid var(--line);background:#fff;color:var(--muted);width:30px;height:30px;border-radius:50%;cursor:pointer;font-size:10px;line-height:1;display:grid;place-items:center;transition:color .2s,border-color .2s,transform .2s}
+.wb-play:hover{color:var(--red);border-color:var(--red);transform:rotate(-12deg)}
+.wb-progress{display:block;width:74px;height:2px;background:#e8e4dd;border-radius:2px;overflow:hidden}
+.wb-progress i{display:block;width:100%;height:100%;background:var(--red);transform-origin:left;animation:wb-fill 5s linear forwards}
+.wb-carousel.is-paused .wb-progress i{animation-play-state:paused;opacity:.35}
+@keyframes wb-fill{from{transform:scaleX(0)}to{transform:scaleX(1)}}
+
+.tour-section{padding:96px 0 20px;scroll-margin-top:110px}
+.tour-section .section-heading{margin-bottom:44px}
+.tour-shell{display:grid;grid-template-columns:300px minmax(0,1fr);gap:26px;align-items:start}
+.tour-nav{display:flex;flex-direction:column;gap:10px}
+.tour-tab{position:relative;overflow:hidden;appearance:none;border:1px solid var(--line);background:#fbfaf7;border-radius:6px;padding:15px 16px;display:grid;grid-template-columns:24px 1fr 14px;gap:10px;align-items:center;text-align:left;cursor:pointer;color:var(--ink);font-family:var(--sans);transition:transform .25s,border-color .25s,background .25s,box-shadow .25s}
+.tour-tab::before{content:"";position:absolute;left:0;top:0;bottom:0;width:2px;background:var(--red);transform:scaleY(0);transition:transform .3s}
+.tour-tab:hover{transform:translateX(3px);border-color:#c8b8b2}
+.tour-tab.is-active{background:#fff;border-color:#c9b7b1;box-shadow:0 12px 28px -22px #921f25}
+.tour-tab.is-active::before{transform:scaleY(1)}
+.tour-tab-num{font-size:10px;color:#a49a91;letter-spacing:.1em}
+.tour-tab.is-active .tour-tab-num{color:var(--red)}
+.tour-tab strong{display:block;font-size:14px;font-weight:600}
+.tour-tab small{display:block;font-size:11px;color:var(--muted);margin-top:2px}
+.tour-tab i{font-style:normal;color:#b3aaa1;font-size:12px}
+.tour-auto{margin-top:6px;appearance:none;align-self:flex-start;border:0;background:transparent;color:var(--muted);font-family:var(--sans);font-size:11px;letter-spacing:.06em;padding:6px 2px;cursor:pointer;display:inline-flex;align-items:center;gap:8px}
+.tour-auto:hover,.tour-auto.is-playing{color:var(--red)}
+.tour-auto span{display:inline-block;transition:transform .4s}
+.tour-auto:hover span{transform:rotate(60deg)}
+.tour-view{border:1px solid #d6d2cb;background:#fff;border-radius:9px;overflow:hidden;box-shadow:0 28px 65px -34px #3d302747}
+.tour-frames{position:relative;aspect-ratio:1600/900;background:#f3f1ec;overflow:hidden}
+.tour-frame{position:absolute;inset:0;margin:0;opacity:0;transform:translateY(10px) scale(1.01);transition:opacity .55s ease,transform .7s cubic-bezier(.22,.61,.36,1);pointer-events:none}
+.tour-frame.is-active{opacity:1;transform:none;pointer-events:auto;z-index:1}
+.tour-frame a{display:block;height:100%;cursor:zoom-in}
+.tour-frame img{display:block;width:100%;height:100%;object-fit:cover;object-position:top center}
+.tour-caption{display:flex;justify-content:space-between;gap:24px;padding:22px 26px;border-top:1px solid #e4e1db;align-items:flex-end}
+.tour-caption h3{font-family:var(--serif);font-weight:500;font-size:24px;margin:8px 0 8px}
+.tour-caption p{font-size:13px;color:var(--muted);line-height:1.9;margin:0;max-width:640px}
+.tour-copy{min-width:0;flex:1}
+.tour-caption.is-changing .tour-copy{animation:tour-in .45s ease both}
+@keyframes tour-in{from{opacity:0;transform:translateY(8px)}to{opacity:1;transform:none}}
+.tour-tags{display:flex;gap:7px;flex-wrap:wrap;justify-content:flex-end;flex:none;max-width:230px}
+.tour-tags span{font-size:10px;color:var(--muted);border:1px solid var(--line);background:#fbfaf7;border-radius:20px;padding:4px 10px;white-space:nowrap}
+.tour-dots{display:flex;gap:6px;padding:0 26px 18px}
+.tour-dots button{width:6px;height:6px;border:0;padding:0;border-radius:50%;background:#d9d3cb;cursor:pointer;transition:width .3s,background .3s}
+.tour-dots button.is-active{width:20px;border-radius:6px;background:var(--red)}
+
+@media(max-width:980px){
+  .tour-shell{grid-template-columns:1fr}
+  .tour-nav{flex-direction:row;overflow-x:auto;padding-bottom:6px;scrollbar-width:thin}
+  .tour-tab{min-width:196px;grid-template-columns:20px 1fr}
+  .tour-tab i{display:none}
+  .tour-auto{flex:none}
+  .tour-caption{flex-direction:column;align-items:flex-start}
+  .tour-tags{justify-content:flex-start;max-width:none}
+}
+@media(max-width:640px){
+  .wb-controls{flex-direction:column;align-items:flex-start;padding:12px;gap:10px}
+  .wb-tabs{width:100%}
+  .wb-tab{flex:1;justify-content:center;padding:8px}
+  .wb-tab-copy small{display:none}
+  .wb-auto{width:100%;justify-content:flex-end}
+  .tour-section{padding:60px 0 10px}
+  .tour-caption{padding:18px}
+  .tour-caption h3{font-size:20px}
+  .tour-dots{padding:0 18px 16px}
+}
+@media(prefers-reduced-motion:reduce){
+  .wb-slide,.tour-frame,.tour-tab,.wb-tab,.wb-play{transition:none}
+  .wb-progress i{animation:none;transform:scaleX(1)}
+  .tour-caption.is-changing .tour-copy{animation:none}
+}

diff --git a/docs/tour-20261108.js b/docs/tour-20261108.js
@@ -1,0 +1,157 @@
+/* Stella 官网 · 工作台轮播与更多板块导览（2026-11-08） */
+(() => {
+  'use strict';
+  const reduceMotion = window.matchMedia('(prefers-reduced-motion: reduce)').matches;
+
+  /* 1. 首页：法律知识工作台 / 案件管理工作台 自动轮播 */
+  const car = document.querySelector('[data-wb-carousel]');
+  if (car) {
+    const slides = Array.from(car.querySelectorAll('[data-wb-slide]'));
+    const tabs = Array.from(car.querySelectorAll('[data-wb-target]'));
+    const play = car.querySelector('[data-wb-toggle]');
+    const bar = car.querySelector('.wb-progress i');
+    const DURATION = 5000;
+    let index = 0, timer = null, manuallyPaused = reduceMotion, hovering = false;
+
+    function resetBar() {
+      if (!bar) return;
+      bar.style.animation = 'none';
+      void bar.offsetWidth;
+      bar.style.animation = '';
+    }
+    function sync() {
+      const idle = manuallyPaused || hovering;
+      clearInterval(timer);
+      timer = null;
+      if (!idle && !reduceMotion) timer = setInterval(() => show(index + 1), DURATION);
+      car.classList.toggle('is-paused', idle);
+      if (play) {
+        play.textContent = manuallyPaused ? '▶' : '❚❚';
+        play.setAttribute('aria-label', manuallyPaused ? '继续自动切换' : '暂停自动切换');
+        play.setAttribute('aria-pressed', String(!manuallyPaused));
+      }
+    }
+    function show(next) {
+      index = (next + slides.length) % slides.length;
+      const key = slides[index].dataset.wbSlide;
+      slides.forEach(s => {
+        const on = s.dataset.wbSlide === key;
+        s.classList.toggle('is-active', on);
+        s.setAttribute('aria-hidden', String(!on));
+      });
+      tabs.forEach(t => {
+        const on = t.dataset.wbTarget === key;
+        t.classList.toggle('is-active', on);
+        t.setAttribute('aria-selected', String(on));
+        t.tabIndex = on ? 0 : -1;
+      });
+      resetBar();
+      sync();
+    }
+
+    tabs.forEach((t, i) => t.addEventListener('click', () => show(i)));
+    if (play) play.addEventListener('click', () => { manuallyPaused = !manuallyPaused; resetBar(); sync(); });
+    car.addEventListener('mouseenter', () => { hovering = true; sync(); });
+    car.addEventListener('mouseleave', () => { hovering = false; sync(); });
+    car.querySelector('.wb-tabs')?.addEventListener('keydown', e => {
+      if (e.key !== 'ArrowRight' && e.key !== 'ArrowLeft') return;
+      e.preventDefault();
+      show(index + (e.key === 'ArrowRight' ? 1 : -1));
+      tabs[index].focus();
+    });
+    let startX = null;
+    car.addEventListener('touchstart', e => { startX = e.touches[0].clientX; }, { passive: true });
+    car.addEventListener('touchend', e => {
+      if (startX === null) return;
+      const dx = e.changedTouches[0].clientX - startX;
+      if (Math.abs(dx) > 45) show(index + (dx < 0 ? 1 : -1));
+      startX = null;
+    }, { passive: true });
+    document.addEventListener('visibilitychange', () => {
+      if (document.hidden) { clearInterval(timer); timer = null; } else sync();
+    });
+    sync();
+  }
+
+  /* 2. 更多板块：点击切换实机截图与说明 */
+  const tour = document.querySelector('[data-tour]');
+  if (tour) {
+    const tabs = Array.from(tour.querySelectorAll('[data-tour-target]'));
+    const frames = Array.from(tour.querySelectorAll('[data-tour-panel]'));
+    const caption = tour.querySelector('.tour-caption');
+    const idxEl = tour.querySelector('[data-tour-index]');
+    const titleEl = tour.querySelector('[data-tour-title]');
+    const copyEl = tour.querySelector('[data-tour-copy]');
+    const tagsEl = tour.querySelector('[data-tour-tags]');
+    const dots = Array.from(tour.querySelectorAll('[data-tour-dot]'));
+    const autoBtn = tour.querySelector('[data-tour-toggle]');
+    const autoLabel = tour.querySelector('[data-tour-toggle-label]');
+    let current = 0, autoTimer = null, playing = false, hovering = false;
+
+    function schedule() {
+      clearInterval(autoTimer);
+      autoTimer = null;
+      if (playing && !hovering && !reduceMotion) autoTimer = setInterval(() => select(current + 1), 4500);
+    }
+    function select(i) {
+      current = (i + tabs.length) % tabs.length;
+      const key = tabs[current].dataset.tourTarget;
+      tabs.forEach((t, n) => {
+        const on = n === current;
+        t.classList.toggle('is-active', on);
+        t.setAttribute('aria-selected', String(on));
+        t.tabIndex = on ? 0 : -1;
+      });
+      frames.forEach(f => {
+        const on = f.dataset.tourPanel === key;
+        f.classList.toggle('is-active', on);
+        f.setAttribute('aria-hidden', String(!on));
+      });
+      dots.forEach((d, n) => d.classList.toggle('is-active', n === current));
+      const d = tabs[current].dataset;
+      if (idxEl) idxEl.textContent = d.index || '';
+      if (titleEl) titleEl.textContent = d.title || '';
+      if (copyEl) copyEl.textContent = d.copy || '';
+      if (tagsEl) {
+        tagsEl.textContent = '';
+        (d.tags || '').split('|').filter(Boolean).forEach(tag => {
+          const span = document.createElement('span');
+          span.textContent = tag;
+          tagsEl.appendChild(span);
+        });
+      }
+      if (caption && !reduceMotion) {
+        caption.classList.remove('is-changing');
+        void caption.offsetWidth;
+        caption.classList.add('is-changing');
+      }
+      if (playing) schedule();
+    }
+    function setPlaying(on) {
+      playing = on;
+      if (autoBtn) {
+        autoBtn.classList.toggle('is-playing', on);
+        autoBtn.setAttribute('aria-pressed', String(on));
+      }
+      if (autoLabel) autoLabel.textContent = on ? '暂停导览' : '自动导览';
+      schedule();
+    }
+
+    tabs.forEach((t, i) => t.addEventListener('click', () => select(i)));
+    dots.forEach((d, i) => d.addEventListener('click', () => select(i)));
+    tour.querySelector('.tour-nav')?.addEventListener('keydown', e => {
+      if (!['ArrowDown', 'ArrowUp', 'ArrowRight', 'ArrowLeft'].includes(e.key)) return;
+      e.preventDefault();
+      const dir = (e.key === 'ArrowDown' || e.key === 'ArrowRight') ? 1 : -1;
+      select(current + dir);
+      tabs[current].focus();
+    });
+    if (autoBtn) autoBtn.addEventListener('click', () => setPlaying(!playing));
+    tour.addEventListener('mouseenter', () => { hovering = true; schedule(); });
+    tour.addEventListener('mouseleave', () => { hovering = false; schedule(); });
+    document.addEventListener('visibilitychange', () => {
+      if (document.hidden) { clearInterval(autoTimer); autoTimer = null; } else schedule();
+    });
+    select(0);
+  }
+})();

diff --git a/docs/watch.html b/docs/watch.html
@@ -15,7 +15,7 @@
 <a class="skip" href="#film">跳至视频</a>
 <header class="masthead"><a class="brand" href="./" aria-label="Stella 官网首页"><img src="assets/stella-brand.svg" alt="Stella" width="155" height="60"></a><a class="home" href="./">返回官网 <span aria-hidden="true">↗</span></a></header>
 <main class="wrap"><section class="intro" aria-labelledby="title"><p class="eyebrow">STELLA / 功能介绍</p><div class="heading"><h1 id="title">看见你的法律工作空间。</h1><p>3 分 24 秒 <span aria-hidden="true">·</span> 实机演示</p></div></section>
-<section id="film" aria-label="Stella 介绍片" class="film"><div class="player-wrap"><video id="player" controls playsinline preload="metadata" poster="media/stella-introduction-poster.webp" aria-label="Stella 法律操作系统功能介绍，时长3分24秒"><source src="media/stella-introduction-20261028.mp4" type="video/mp4"><track kind="chapters" src="media/stella-introduction-chapters.vtt" srclang="zh-CN" label="章节"><p>当前浏览器无法播放视频，请<a href="media/stella-introduction-20261028.mp4">打开视频文件</a>。</p></video><button id="start" class="start" type="button" aria-label="播放 Stella 介绍片"><span aria-hidden="true">▶</span><span id="start-label">播放介绍片</span></button></div><div class="film-meta"><p>刘宗锦、徐若楠、庄承源</p><p id="play-status" role="status" aria-live="polite"></p></div></section>
+<section id="film" aria-label="Stella 介绍片" class="film"><div class="player-wrap"><video id="player" controls playsinline preload="metadata" poster="media/stella-introduction-poster.webp" aria-label="Stella 法律操作系统功能介绍，时长3分24秒"><source src="media/stella-introduction-20261028.mp4" type="video/mp4"><track kind="chapters" src="media/stella-introduction-chapters.vtt" srclang="zh-CN" label="章节"><p>当前浏览器无法播放视频，请<a href="media/stella-introduction-20261028.mp4">打开视频文件</a>。</p></video><button id="start" class="start" type="button" aria-label="播放 Stella 介绍片"><span aria-hidden="true">▶</span><span id="start-label">播放介绍片</span></button></div><div class="film-meta"><p id="play-status" role="status" aria-live="polite"></p></div></section>
 <section class="chapters" id="chapters" aria-labelledby="chapters-title"><div class="chapter-heading"><h2 id="chapters-title">按功能观看</h2><p>点击章节，直接跳到对应演示。</p></div><div class="chapter-grid"><button class="chapter" type="button" data-seek="10.133333"><span>00</span>全局总览</button>
 <button class="chapter" type="button" data-seek="15.066667"><span>01</span>案件管理系统</button>
 <button class="chapter" type="button" data-seek="34.316667"><span>02</span>自动化立案</button>
